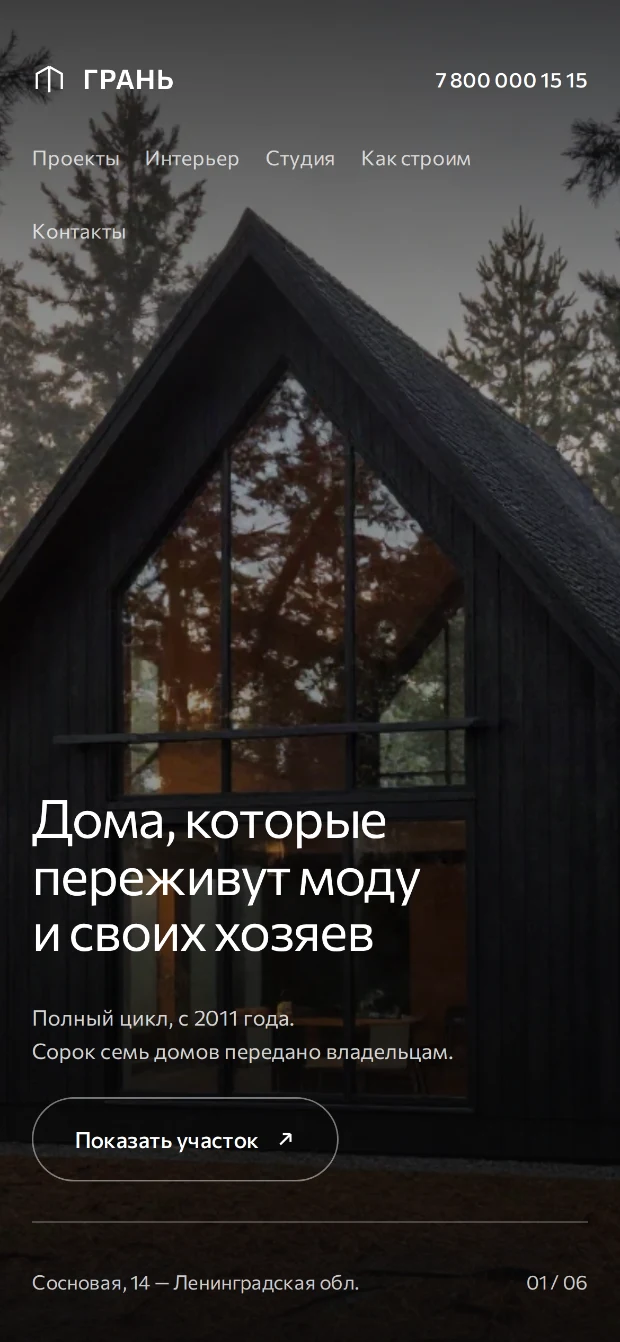
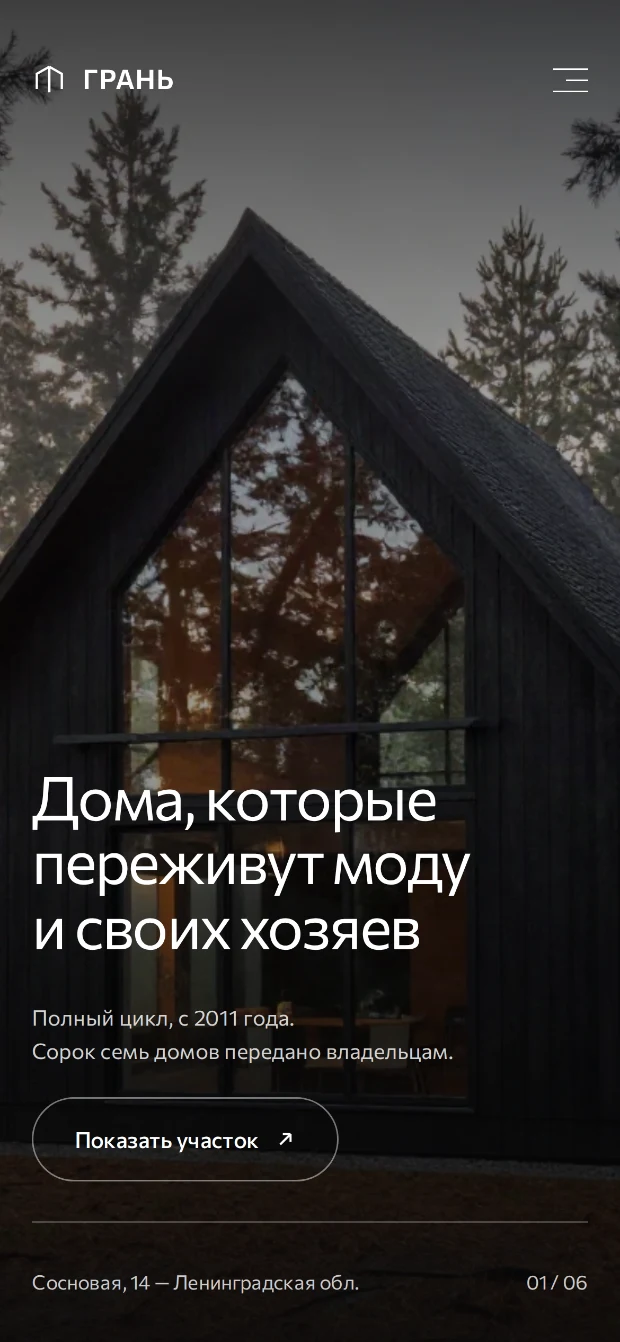
Refresh the GRAN phone screenshot after the burger menu landed
The site replaced the wrapped section list on phones with a burger button, so
the hero photograph reads clean under the header. The case shot is re-taken
from the current build and the images carry a version query.

Claude-Session: https://claude.ai/code/session_01PwMpDRGxABvNzy3B5m52rW

diff --git a/index.html b/index.html
@@ -407,7 +407,7 @@ footer{border-top:1px solid var(--line-2);padding-block:26px;color:var(--t3);fon
       <div class="hero-index">
         <p class="hero-index-t">Проекты</p>
         <a class="hi" href="https://bonifirmaarm-design.github.io/housee/" target="_blank" rel="noopener">
-          <img src="assets/case-gran-desktop.webp" width="1600" height="1000" alt="" decoding="async">
+          <img src="assets/case-gran-desktop.webp?v=2" width="1600" height="1000" alt="" decoding="async">
           <b>ГРАНЬ</b><span>Опубликован</span>
         </a>
         <a class="hi" href="https://bonifirmaarm-design.github.io/mebel/" target="_blank" rel="noopener">
@@ -454,8 +454,8 @@ footer{border-top:1px solid var(--line-2);padding-block:26px;color:var(--t3);fon
           </div>
 
           <a class="shot" href="https://bonifirmaarm-design.github.io/housee/" target="_blank" rel="noopener" aria-label="Открыть сайт ГРАНЬ в новой вкладке">
-            <div class="plate"><img src="assets/case-gran-desktop.webp" width="1600" height="1000" alt="Первый экран сайта ГРАНЬ: чёрный дом в утреннем тумане среди сосен, поверх кадра заголовок «Дома, которые переживут моду и своих хозяев»." loading="lazy" decoding="async"></div>
-            <img class="phone" src="assets/case-gran-mobile.webp" width="620" height="1342" alt="Тот же сайт на экране телефона." loading="lazy" decoding="async">
+            <div class="plate"><img src="assets/case-gran-desktop.webp?v=2" width="1600" height="1000" alt="Первый экран сайта ГРАНЬ: чёрный дом в утреннем тумане среди сосен, поверх кадра заголовок «Дома, которые переживут моду и своих хозяев»." loading="lazy" decoding="async"></div>
+            <img class="phone" src="assets/case-gran-mobile.webp?v=2" width="620" height="1342" alt="Тот же сайт на экране телефона." loading="lazy" decoding="async">
           </a>
 
           <div class="case-body">
